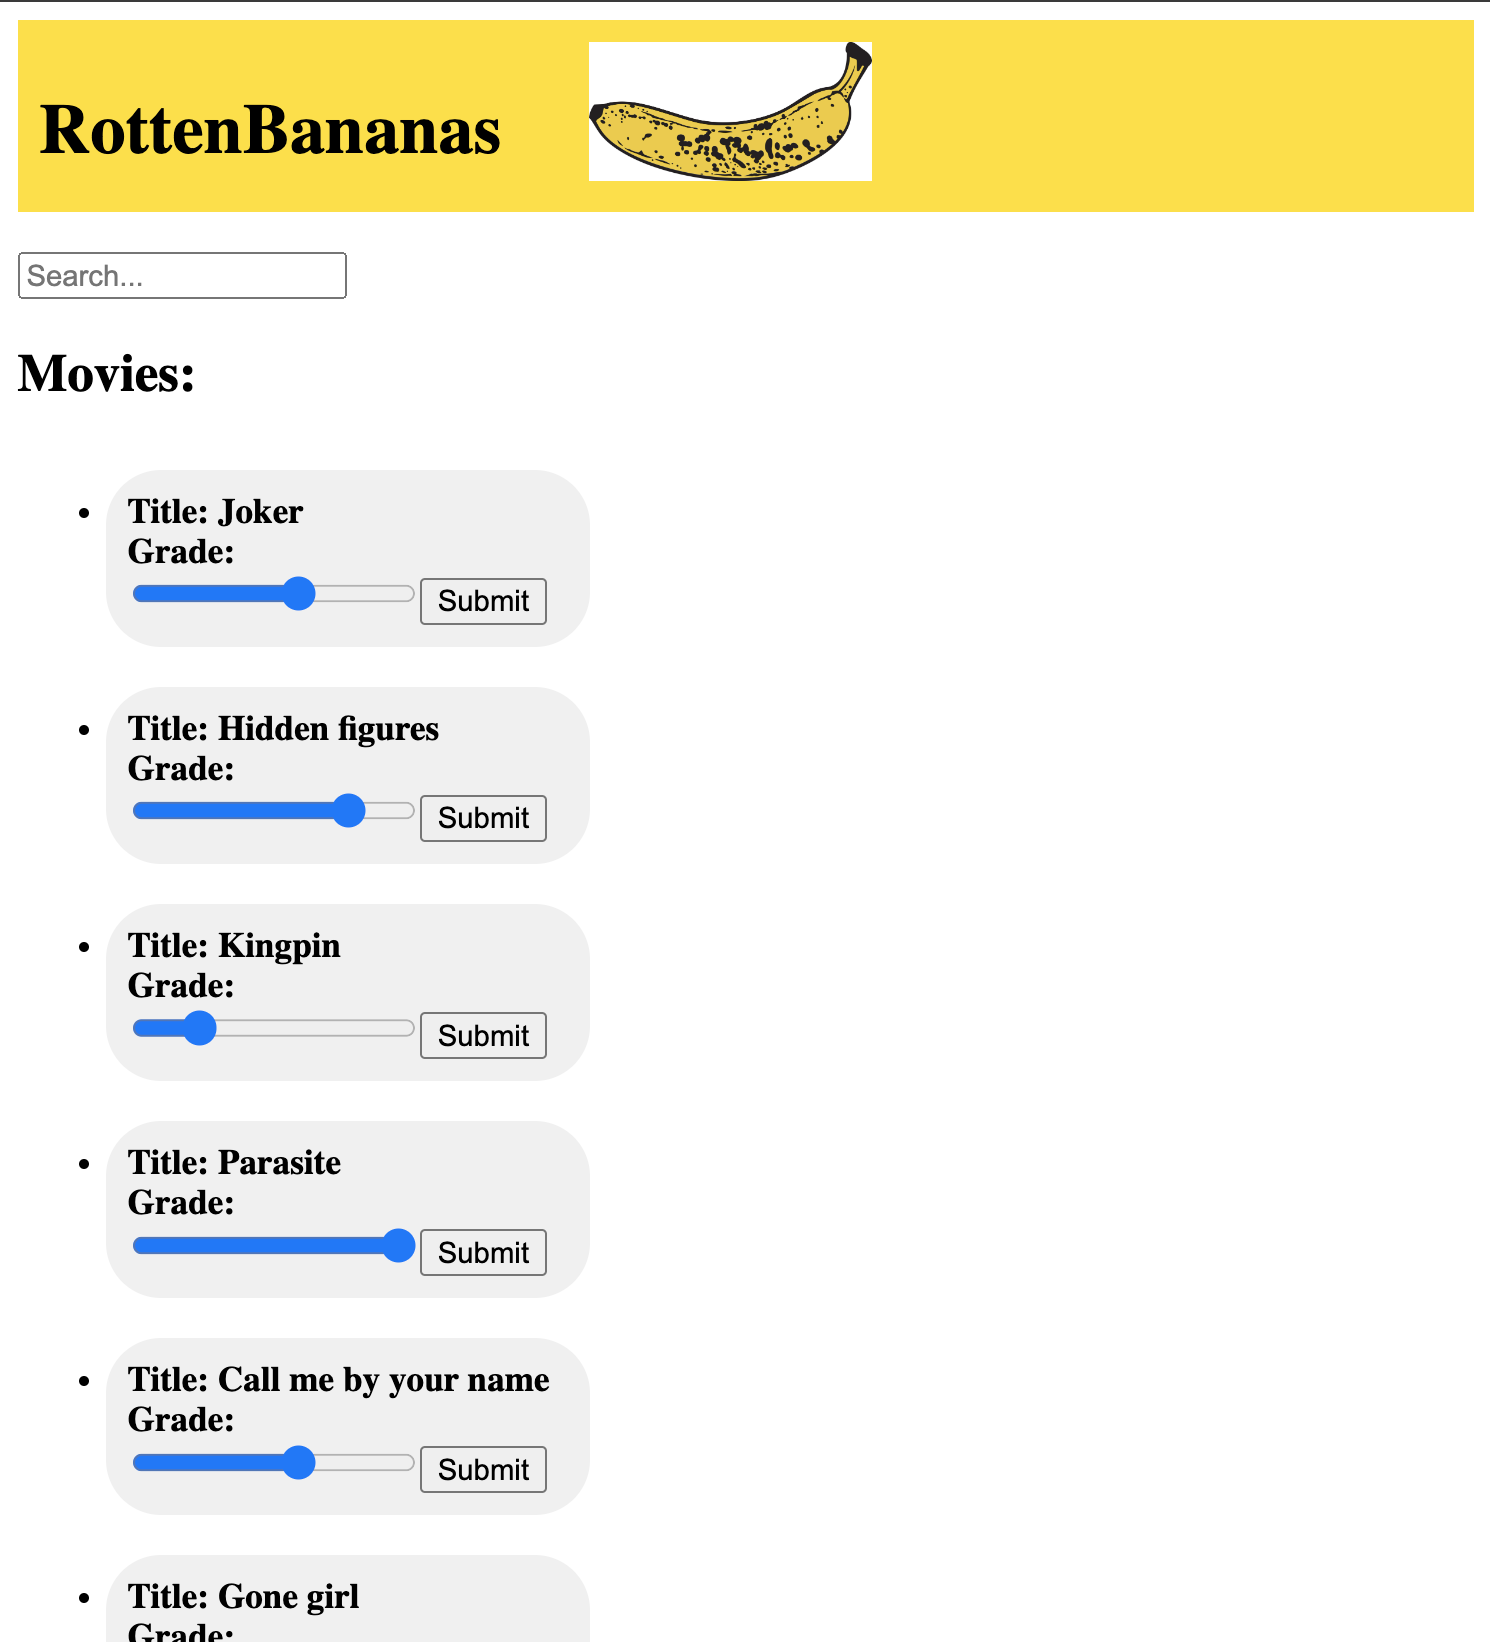
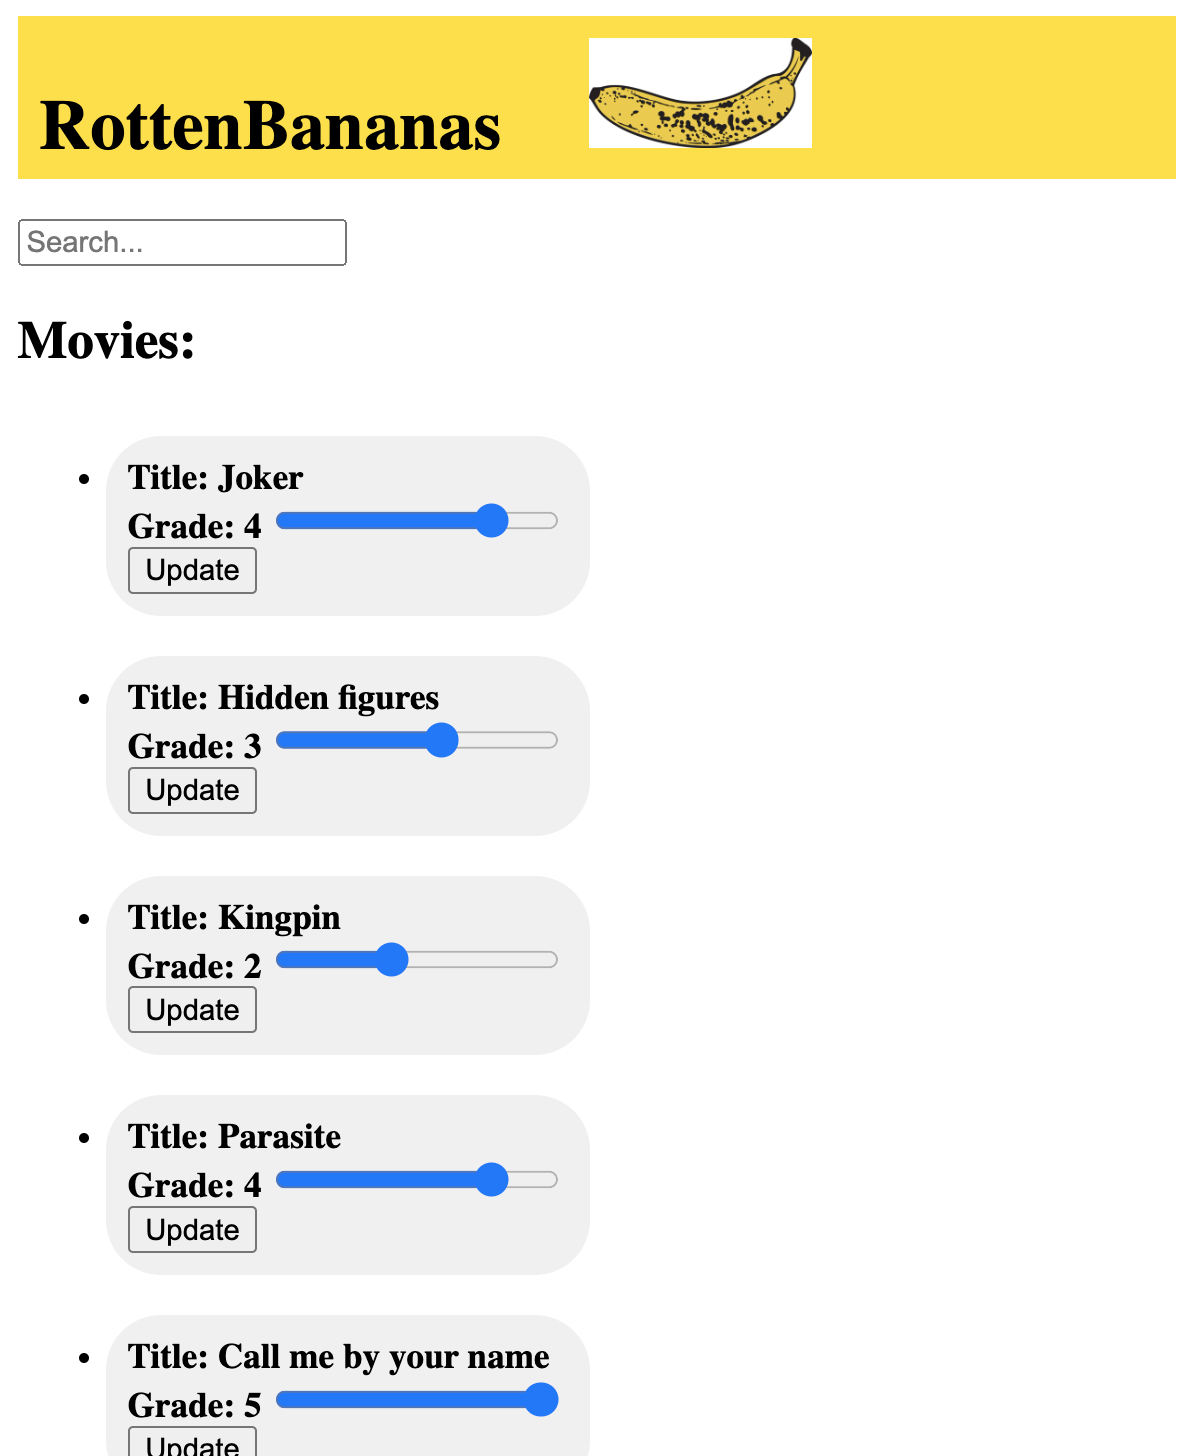
database works

diff --git a/rottenBananas/src/app/movies.service.ts b/rottenBananas/src/app/movies.service.ts
@@ -1,15 +1,23 @@
 // separating the http endpoint from the class component
 // allows us to unit test that component without any http service.
-// import data from './db.json';
-import { default as data } from './db.json';
 import { Injectable } from '@angular/core';
 import { BehaviorSubject } from 'rxjs';
+import { HttpClient } from '@angular/common/http';
 
+@Injectable({
+ providedIn: 'root',
+})
 export class MoviesService {
-  movies: {id: number, grade: number, title: string}[] = (data.videos);
+  movies: Video[] = [];
   searchTerm: string = '';
-  filteredMovies: BehaviorSubject<{id: number, grade: number, title: string}[]> = new BehaviorSubject(data.videos);
+  filteredMovies: BehaviorSubject<Video[]> = new BehaviorSubject<Video[]>([]);
 
+  constructor(private http: HttpClient){
+     this.http.get('http://localhost:3000/videos').subscribe( res => {
+       this.movies = <Video[]>(res); // cast to video type
+       this.filteredMovies.next(<Video[]>(res));
+     });
+  }
   setSearchTermAndFilter(textInput: string){
     this.searchTerm = textInput;
     // filter search according to search term:
@@ -22,10 +30,19 @@ export class MoviesService {
   updateGradeDB(movieId: number, newGrade: number){
     console.log("about to change " + this.movies[movieId-1].title + " to " + newGrade);
     this.movies[movieId-1].grade = newGrade;
-    // update database TODO
+    // update database:
+    let video: Video = {id: movieId, grade: newGrade, title: this.movies[movieId-1].title};
+    this.http.put<Video>('http://localhost:3000/videos/'+movieId, video).subscribe();
   }
 
   getMovies(){
     return this.filteredMovies;
   }
+}
+
+// interface for video:
+export interface Video {
+  id: number,
+  grade: number,
+  title: string
 }

diff --git a/rottenBananas/src/app/app.module.ts b/rottenBananas/src/app/app.module.ts
@@ -1,3 +1,4 @@
+import { HttpClientModule } from '@angular/common/http';
 import { SearchBoxComponent } from './searchBox.component';
 import { MoviesService } from './movies.service';
 import { MoviesComponent } from './movies.component';
@@ -14,7 +15,8 @@ import { Observable, Subscription } from 'rxjs';
     SearchBoxComponent
   ],
   imports: [
-    BrowserModule
+    BrowserModule,
+    HttpClientModule
   ],
   providers: [
     MoviesService

diff --git a/README.md b/README.md
@@ -15,7 +15,12 @@ With Node.js and angular-cli from rottenBananas repository:
 ```
 ng serve
 ```
-go to: http://localhost:4200/
-
+and json-server:
+```
+json-server --watch db.json
+```
+go to: http://localhost:4200/ for the application
+and
+go to: http://localhost:3000/videos for the database
 
 <img src="./screenshot.png">
